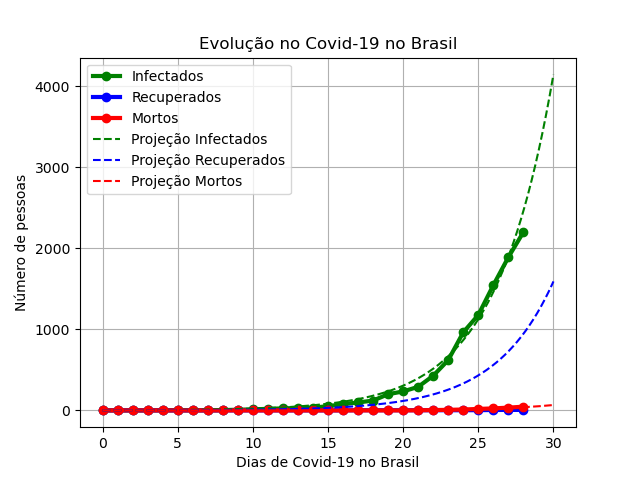
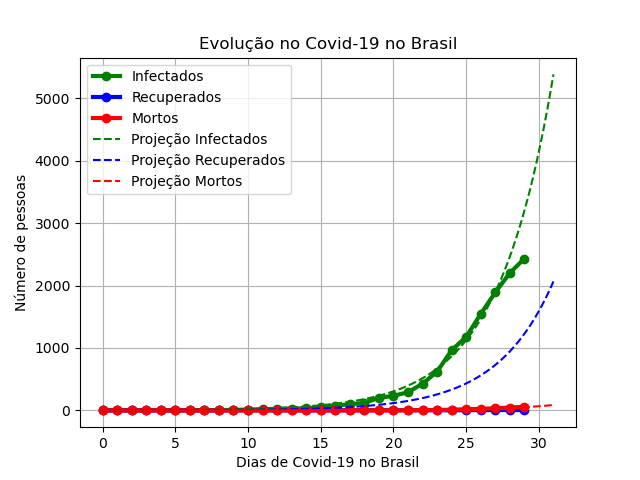
Update covid

diff --git a/covid-19.html b/covid-19.html
@@ -107,7 +107,10 @@
         
         <a class="aulaImg"><img class="aula" src="images/covid19.png"></a>
 
-        <p> A projeção é feita através do modelo SIR. Eu atualizei o modelo, pois o número de casos reportados oficialmente está obviamente defasado. Não faz sentido o número de recuperados reportados com o número de mortes. Por isso, atualizei o modelo para demonstrar que, na verdade, muitas pessoas já se recuperaram no Brasil, utilizando valores referentes ao coronavirus no mundo. Se você quer entender como uma epidemia evolui e a entender como os cientistas projetam possíveis cenários da evolução de uma pandemia, veja o vídeo que preparei abaixo.</p>
+        <p> A projeção é feita através do modelo SIR. Eu atualizei o modelo, pois o número de casos reportados oficialmente está obviamente defasado. Não faz sentido o número de recuperados reportados com o número de mortes. Por isso, atualizei o modelo para demonstrar que, na verdade, muitas pessoas já se recuperaram no Brasil, utilizando valores referentes ao coronavirus no mundo. </p>
+        <p> Note que o número de casos reportados está divergindo da projeção. Isso pode indicar que a quarentena está surtindo efeito ou que estão fazendo menos análises e confirmando um menor número de casos. </p>
+        <p> Por enquanto essas duas hipóteses não podem ser avaliadas pela falta de dados. Porém, o número de óbitos indica que o número de infectados pode estar sendo subnotificado, uma vez que o número de óbitos está mais próximo à projeção. </p>
+        <p> Se você quer entender como uma epidemia evolui e a entender como os cientistas projetam possíveis cenários da evolução de uma pandemia, veja o vídeo que preparei abaixo.</p>
 
         <a class="aulaImg" href="https://youtu.be/XaNvUEX9Kbc"><img class="aula" src="images/CoronavirusSIR.png"></a>
         <b> Clique na imagem para abrir o vídeo.</b>
